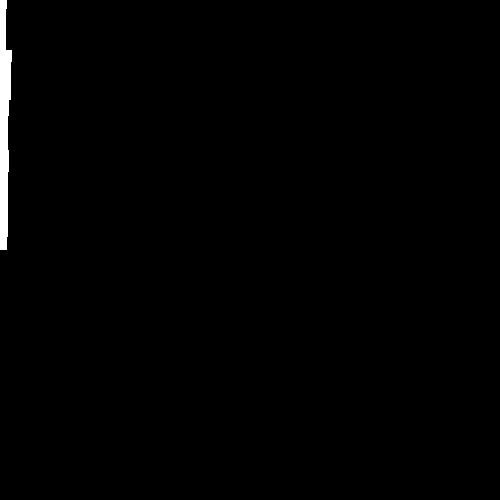
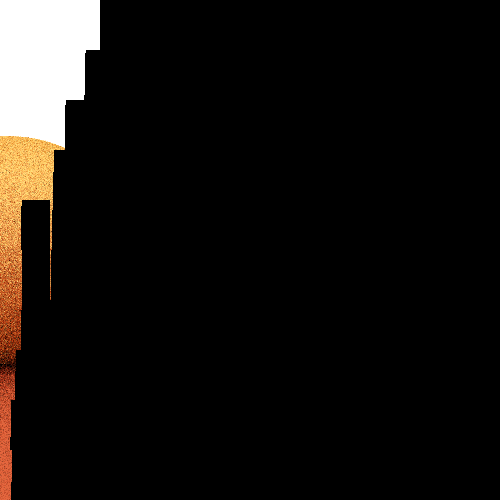
KdTree fixed

Changed region(s): [[0.0, 0.0, 0.21, 1.0]]

diff --git a/src/Geometry.cpp b/src/Geometry.cpp
@@ -200,6 +200,28 @@ bool Plane::CheckIntersection(const Ray& ray, const glm::vec3& point, ContactInf
 	return true;
 }
 
+float Plane::GetIntersectionTime(const Ray& ray) const
+{
+	//computing the dot product
+	float dot = glm::dot(mNormal, ray.mV);
+
+	//if the dot product is 0
+	if (dot <= cEpsilon && dot >= -cEpsilon)
+		return -1.0F;
+
+	//using the formula to compute the time
+	float d = (mNormal.x * mP.x) + (mNormal.y * mP.y) + (mNormal.z * mP.z);
+
+	float t = (d - glm::dot(mNormal, ray.mP0)) / dot;
+
+	//if the t is negative return -1
+	if (t < 0.0F)
+		return -1.0F;
+
+	//returning the time
+	return t;
+}
+
 glm::vec3 Plane::ProjectPointInPlane(const glm::vec3& point) const
 {
 	//projecting the point onto the plane
@@ -609,6 +631,46 @@ bool Triangle::CheckIntersection(const Ray& ray, const glm::vec3& center, Contac
 
 	// intersection with the triangle
 	return true;
+}
+
+float Triangle::GetIntersectionTime(const Ray& ray) const
+{
+	//checking if the ray intersects with the plane created by the tirangle
+	glm::vec3 normal = glm::normalize(glm::cross(mV0 - mV1, mV0 - mV2));
+	Plane p(normal, mV0);
+	float time = p.GetIntersectionTime(ray);
+
+	//if they intersect
+	if (time != -1.0F)
+	{
+		//checking point containment using barycentric coordinates
+		glm::vec3 point = ray.mP0 + (time * ray.mV);
+
+		glm::vec3 edge0(mV1 - mV0);
+		glm::vec3 edge1(mV2 - mV0);
+		glm::vec3 edge2(point - mV0);
+
+		float dot00 = glm::dot(edge0, edge0);
+		float dot01 = glm::dot(edge0, edge1);
+		float dot02 = glm::dot(edge0, edge2);
+		float dot11 = glm::dot(edge1, edge1);
+		float dot12 = glm::dot(edge1, edge2);
+
+		float divider = (dot00 * dot11) - (dot01 * dot01);
+
+		if (divider == 0.0F)
+			return -1.0F;
+
+		float u = ((dot11 * dot02) - (dot01 * dot12)) / divider;
+		float v = ((dot00 * dot12) - (dot01 * dot02)) / divider;
+
+		if (u >= 0.0F && v >= 0 && (u + v <= 1.0F))
+			return time;
+
+	}
+
+	//if they dont intersect return -1
+	return -1.0F;
 }
 
 void Triangle::GetEdgesFromVertices(glm::vec3& edgeA, glm::vec3& edgeB) const

diff --git a/src/Geometry.h b/src/Geometry.h
@@ -41,6 +41,7 @@ struct Triangle : Geometry
     Triangle(const char** info = nullptr);
 	Triangle(const glm::vec3& v0, const glm::vec3& v1, const glm::vec3& v2);
     bool CheckIntersection(const Ray& ray, const glm::vec3& center, ContactInfo& info) const;
+    float GetIntersectionTime(const Ray& ray) const;
     void GetEdgesFromVertices(glm::vec3& edgeA, glm::vec3& edgeB) const;
     Triangle ApplyMatrix(const glm::mat4x4& mat);
 
@@ -118,6 +119,7 @@ struct Plane : Geometry
     bool CheckIntersection(const Ray& ray, const glm::vec3& point, glm::vec2& interval) const;
     bool CheckIntersection(const Ray& ray, glm::vec2& interval) const;
     bool CheckIntersection(const Ray& ray, const glm::vec3& point, ContactInfo& info) const;
+    float GetIntersectionTime(const Ray& ray) const;
     glm::vec3 ProjectPointInPlane(const glm::vec3& point) const;
 
     //necessary data

diff --git a/src/Raytracer.cpp b/src/Raytracer.cpp
@@ -38,9 +38,8 @@ ContactInfo RayTracer::FindClosestObj(const Ray& ray, const Scene& scene)
 	{
         minInfo.mTI = treeIntersection.t;
 
-        size_t index = scene.mKDTree.indices()[treeIntersection.triangle_index];
+        size_t index = treeIntersection.triangle_index;
 		const kdtree::triangle_wrapper& triangleWrapper = scene.mKDTree.triangles()[index];
-		//const kdtree::triangle_wrapper& triangleWrapper = scene.mKDTree.triangles()[treeIntersection.triangle_index];
         minInfo.mNormal = triangleWrapper.tri.mNormal;
         minInfo.mColor = triangleWrapper.owner && triangleWrapper.owner->mMaterial ? triangleWrapper.owner->mMaterial->mColor : Color::Black;
 

diff --git a/src/KDTree.cpp b/src/KDTree.cpp
@@ -614,9 +614,7 @@ kdtree::intersection kdtree::get_min(Ray const& r, int currNode, intersection& m
 				size_t index = m_nodes[currNode].primitive_start();
 
 				//getting the intersection time for the Triangle
-				ContactInfo triangleIntersection;
-				m_triangles[m_indices[index + i]].tri.CheckIntersection(r, glm::vec3(0.0f), triangleIntersection);
-				float time = triangleIntersection.mTI;
+				float time = m_triangles[m_indices[index + i]].tri.GetIntersectionTime(r);
 
 				//if does not intersect skip it
 				if (time < 0.0F)

diff --git a/src/GraphicsManager.cpp b/src/GraphicsManager.cpp
@@ -36,7 +36,6 @@ void GraphicsManagerClass::RenderBatch(int startX, int startY, int endX, int end
 
 			if (mMSAASamples > 0)
 			{
-
 				for (int i = 0; i < mMSAASamples; i++)
 				{
 					// Generating a random subpixel sample coords
